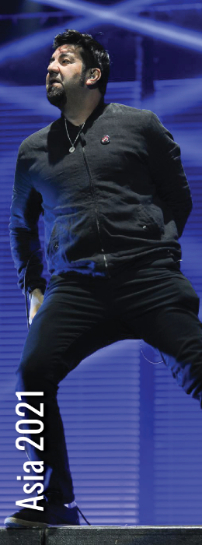
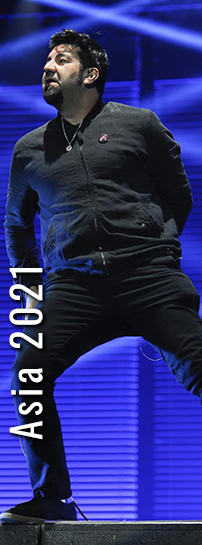
Review
The look over for the stuff and things

diff --git a/css/touraccordion.css b/css/touraccordion.css
@@ -106,21 +106,21 @@
     background-image: url('../img/NA_tour.jpg');
     background-repeat: no-repeat;
     background-size: cover;
-    background-position: center;
+    background-position: top;
 }
 
 #yellow{
     background-image: url('../img/Europe_tour.jpg');
     background-repeat: no-repeat;
     background-size: cover;
-    background-position: center;
+    background-position: top;
 }
 
 #green{
     background-image: url('../img/Asia_tour.jpg');
     background-repeat: no-repeat;
     background-size: cover;
-    background-position: center;
+    background-position: top;
 }
 
 @media screen and (max-width: 768px){

diff --git a/css/main.css b/css/main.css
@@ -55,7 +55,7 @@ font-size: 25px;
 }
 
 .home{
-background-image: url("../img/Ohms-                             Loop2.gif");
+background-image: url("../img/OhmsVid.gif");
 height: 100vh;
 background-size: cover;
 background-repeat: no-repeat;
@@ -360,6 +360,7 @@ left: 4%;
   flex-direction: column;
   list-style-type: none;
   margin: 0 auto;
+  width: 230px;
 }
 
 .shows ul li{
